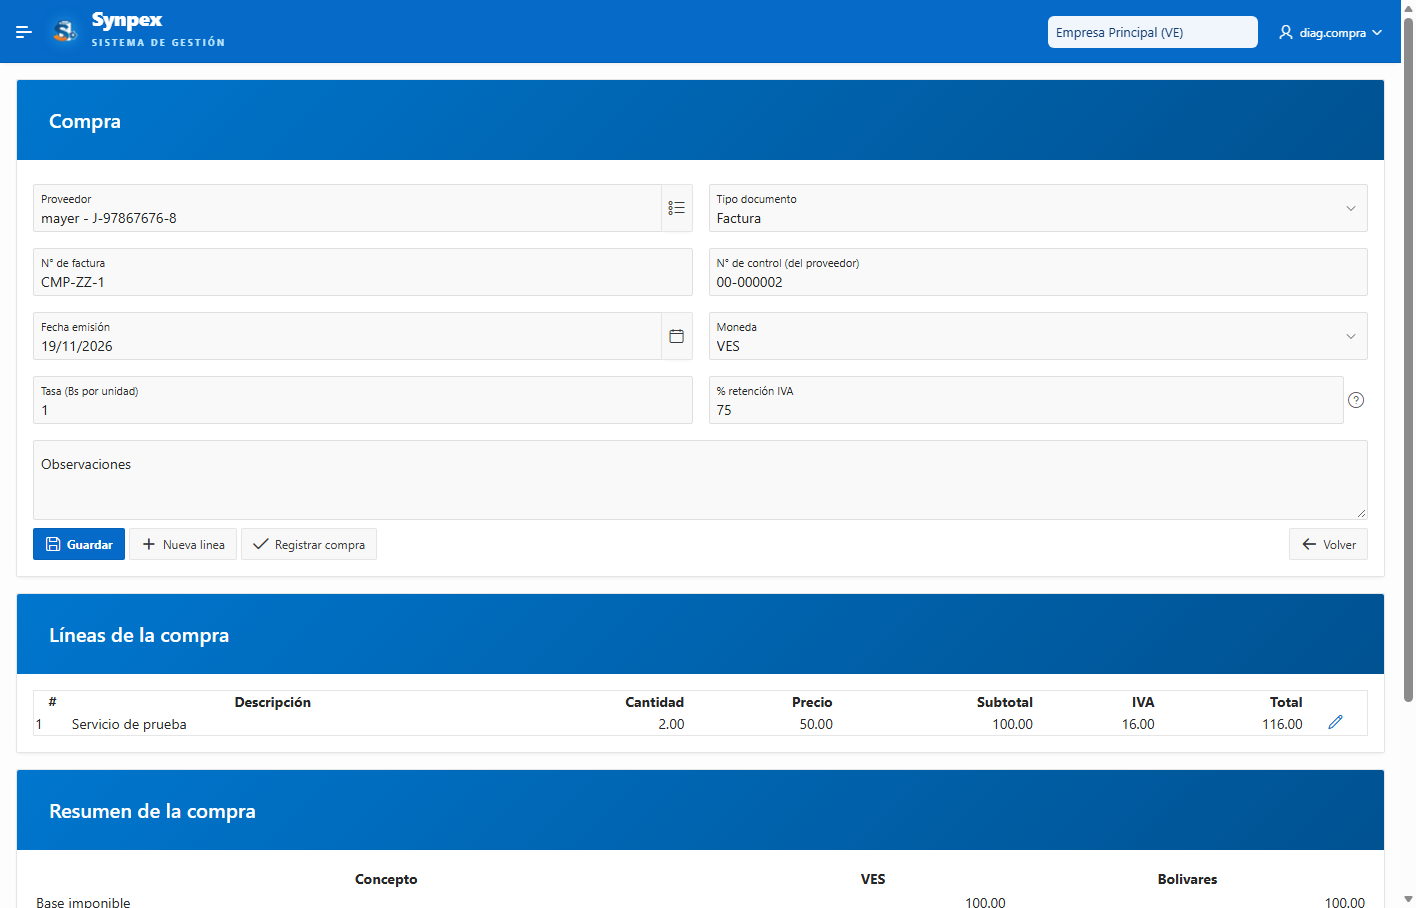
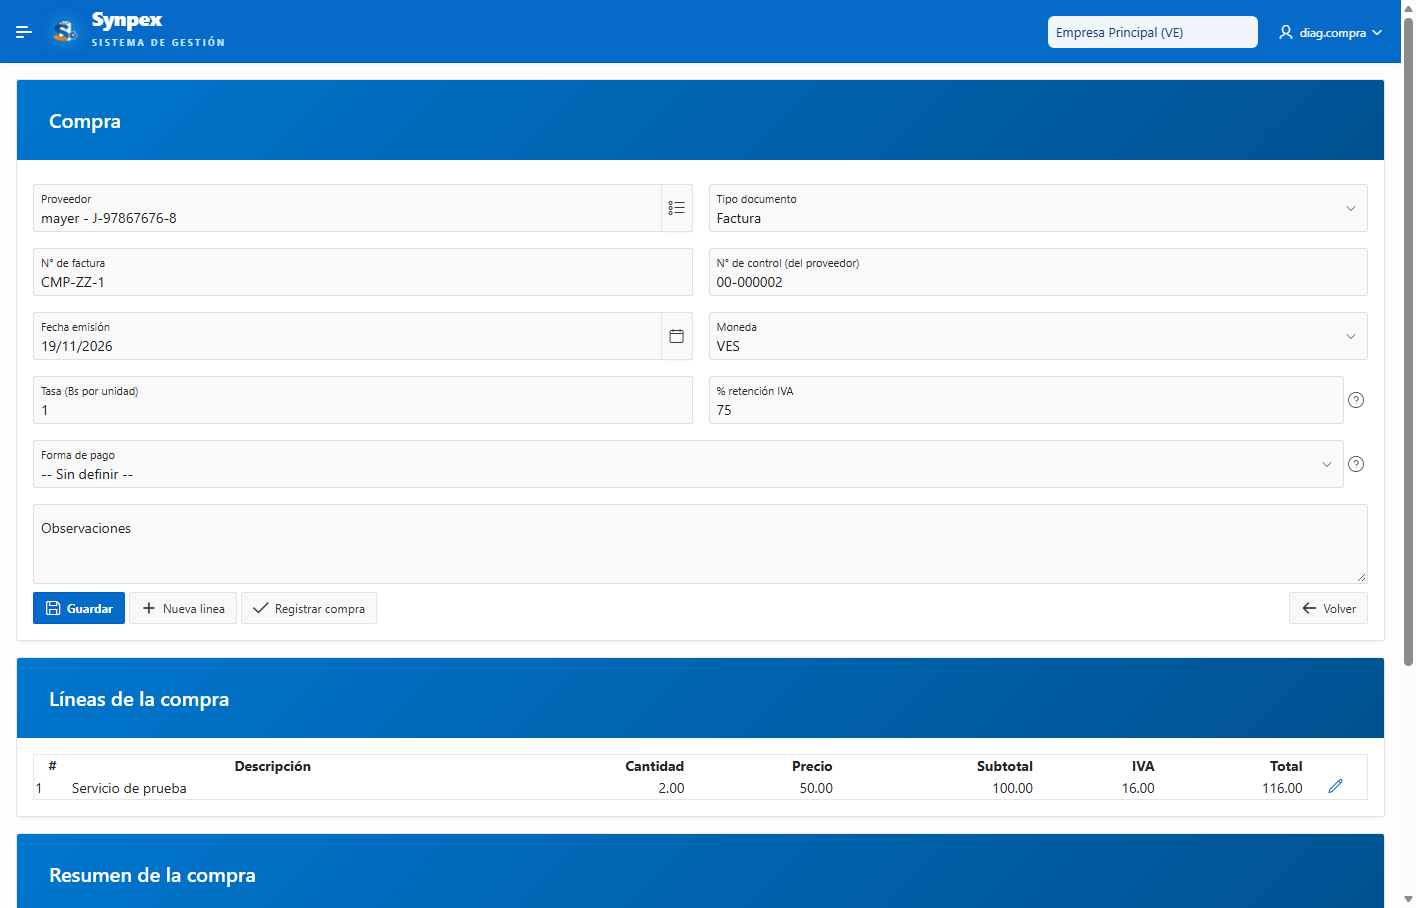
Publicar codigo desde el equipo local (sin .md)

diff --git a/deploy/diagnostico/20261119_recibo_anular_navegador.py b/deploy/diagnostico/20261119_recibo_anular_navegador.py
@@ -150,6 +150,12 @@ try:
         comprobar("A1 el dialogo del recibo abre desde la lista", abierto == "CLIC" and hay is True,
                   (abierto, hay))
 
+        # A1b (2026-11-19): al abrir un recibo guardado, el neto en bolivares viene lleno
+        neto_bs = nav.js('(function(){var w=document.querySelector("iframe").contentWindow;'
+                         'return w.apex.item("P25_NETO_BS").getValue();})()')
+        comprobar("A1b el neto en bolivares se carga al abrir", str(neto_bs).strip() != "",
+                  neto_bs)
+
         # A2: anular
         nav.js('(function(){var f=document.querySelector("iframe");'
                'var b=[...f.contentDocument.querySelectorAll("button")].find(function(x){'
